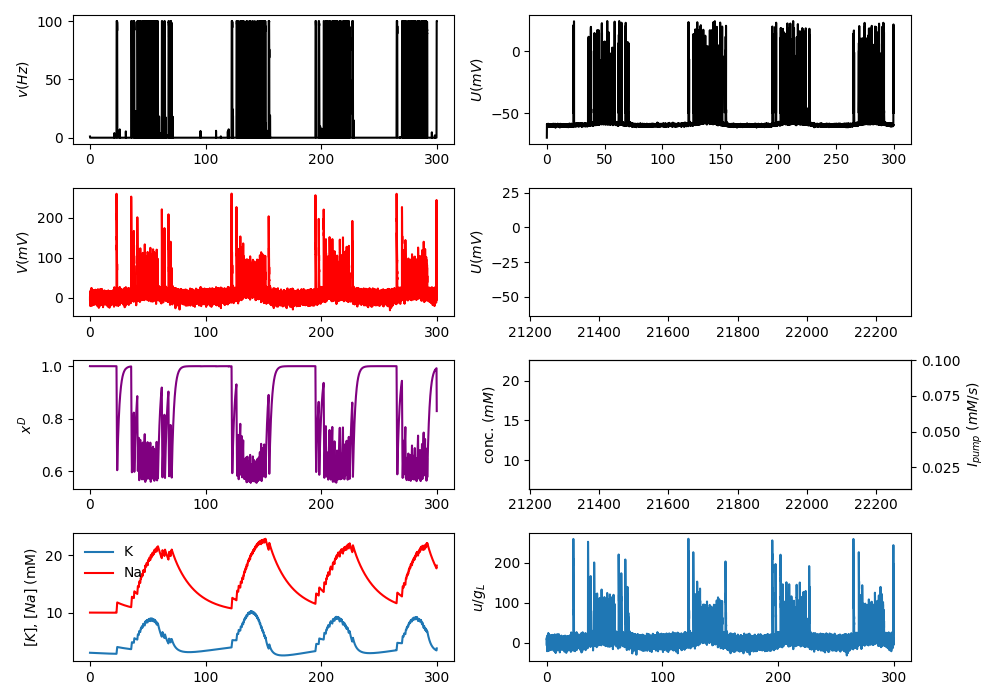
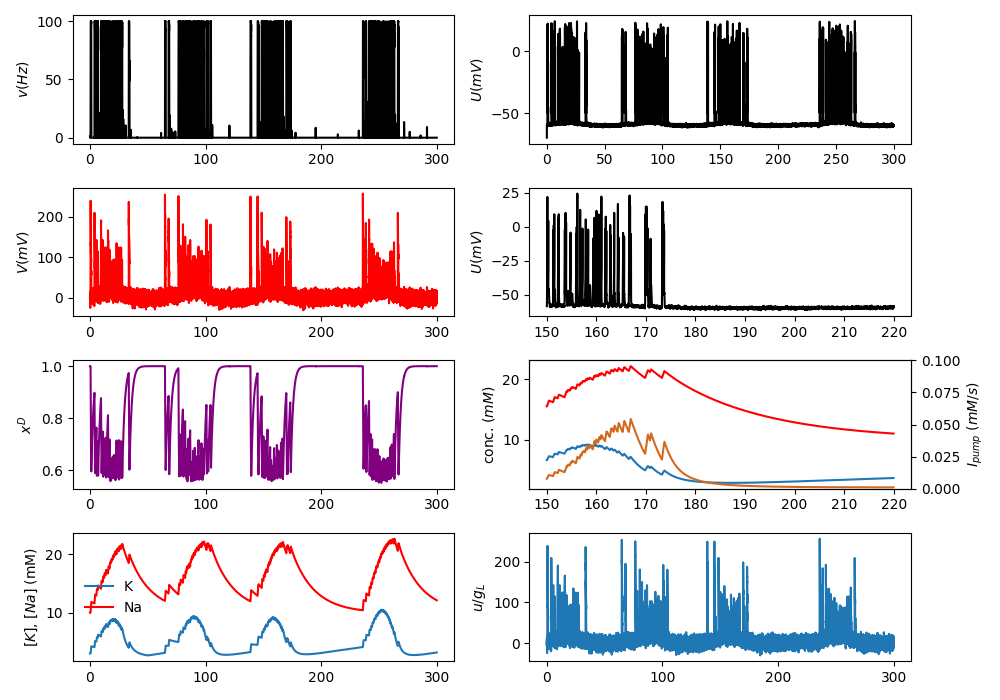
updated Python file from AV Chizhov

diff --git a/readme.html b/readme.html
@@ -36,4 +36,5 @@ file is loaded into a browser (will not run from ModelDB):
 <p>The python (verified in Python 3.6.9) version produces the following graphs</p>
 <img src="./screenshot2.png" alt="screenshot 2">
 <p>The code has been originally written by me (AV Chizhov) in Delphi. It was later re-implemented in Python by Artyom Zefirov, in Wolfram Mathematica by Dmitry Amakhin, and in Javascript by me.</p>
+<p>20200514 update from AV Chizhov to provide corrected Python file.</p>
 </html>

diff --git a/Python/iid_ep2_plot_corrected.py b/Python/iid_ep2_plot_corrected.py
@@ -6,8 +6,9 @@
 Сей лес, столь дикий, столь густой и лютый,
 Что в мыслях он мой страх возобновил.
 """
-import pylab as pl
+
 import numpy as np
+import pylab as pl
 
 
 def VK(Kconc):
@@ -151,12 +152,12 @@ pl.subplot(422)
 pl.plot(xax, UU, 'k')
 pl.ylabel(r'$U (mV)$')
 
-bgin = int(212. / dt)
-endd = int(223. / dt)
+bgin = int(150. / dt)
+endd = int(220. / dt)
 axx = pl.subplot(424)
 pl.plot(xax[bgin:endd], UU[bgin:endd], 'k')
 pl.ylabel(r'$U (mV)$')
-pl.xlim(bgin - 1, endd + 1)
+# pl.xlim(bgin - 1, endd + 1)
 
 ax1 = pl.subplot(426, sharex=axx)
 pl.plot(xax[bgin:endd], KK[bgin:endd], label='K')
@@ -169,7 +170,7 @@ pl.plot(xax[bgin:endd], II[bgin:endd], \
         color=np.array([210, 105, 30]) / 255., label='Ip')
 # pl.legend(frameon=False, loc='best')
 pl.ylabel(r'$I_{pump}$ $(mM/s)$')
-pl.ylim(0.01, 0.1)
+pl.ylim(0, 0.1)
 
 pl.subplot(428, sharex=ax)
 pl.plot(xax, uu)
